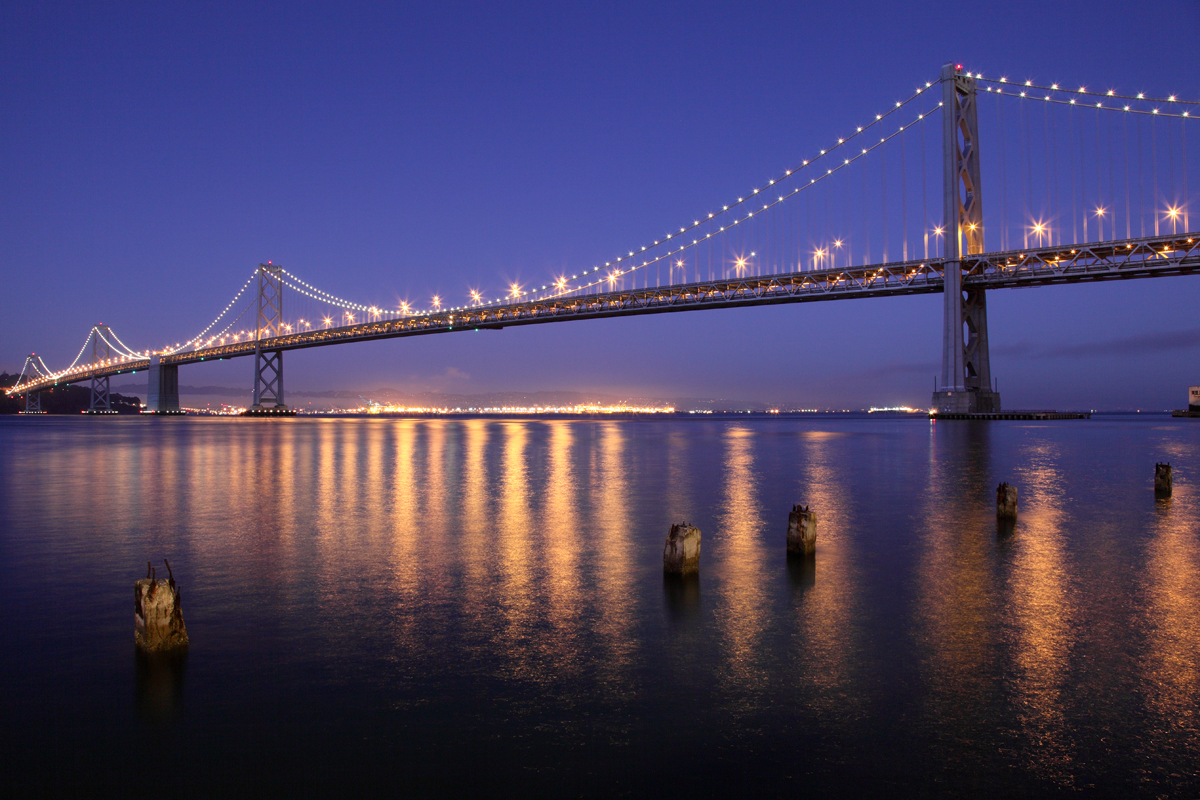
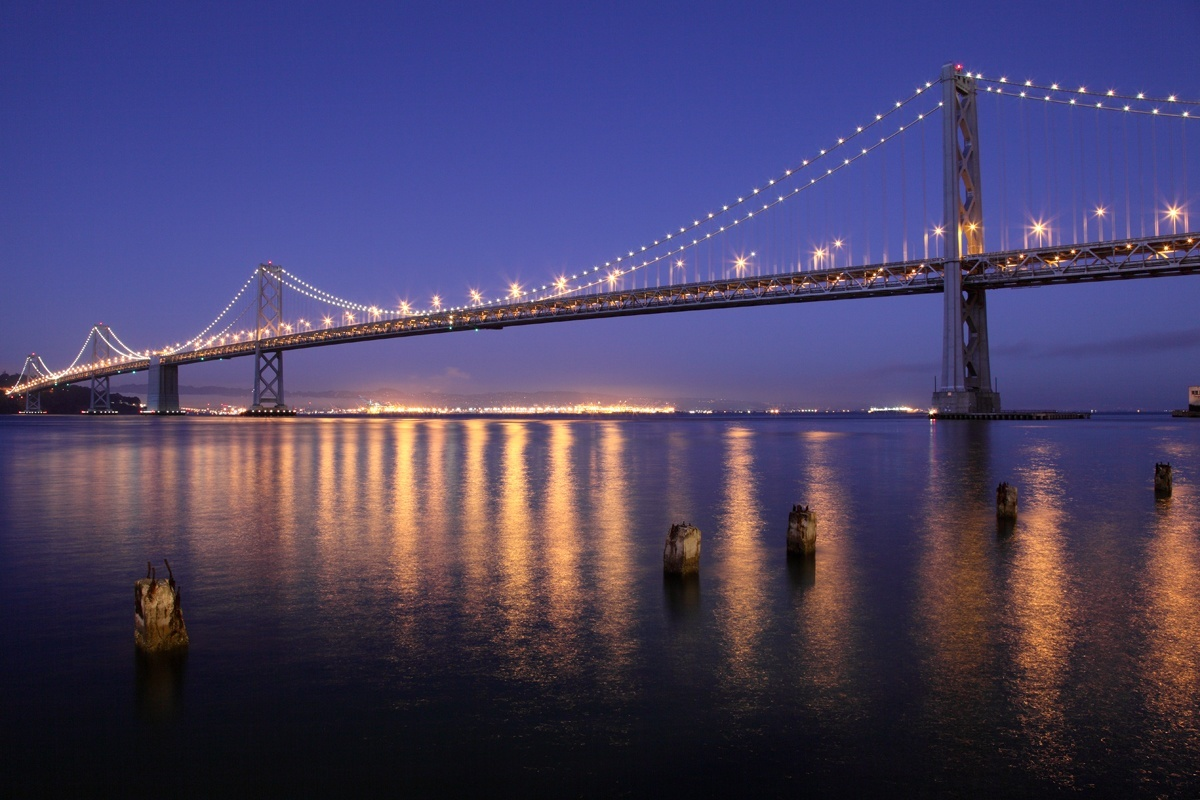
Background images optimized, removed tooltips from the right

diff --git a/js/main.js b/js/main.js
@@ -14,7 +14,7 @@ $(document).ready(function() {
             'textColor': '#338caf',
             'bulletsColor': '#338caf',
             'position': 'right',
-            'tooltips': ['What', 'When', 'Where', 'Why', 'Who', 'Resources']
+            'tooltips': []
         },
         normalScrollElements: null,
         normalScrollElementTouchThreshold: 5,
@@ -24,9 +24,7 @@ $(document).ready(function() {
         animateAnchor: false,
 
         //events
-        onLeave: function(index, nextIndex, direction){
-
-        },
+        onLeave: function(index, nextIndex, direction){},
         afterLoad: function(anchorLink, index){
             $(".menu-trigger").removeClass('active-menu');
             $("#main-menu").find("[data-section='" + index + "']").addClass('active-menu');
